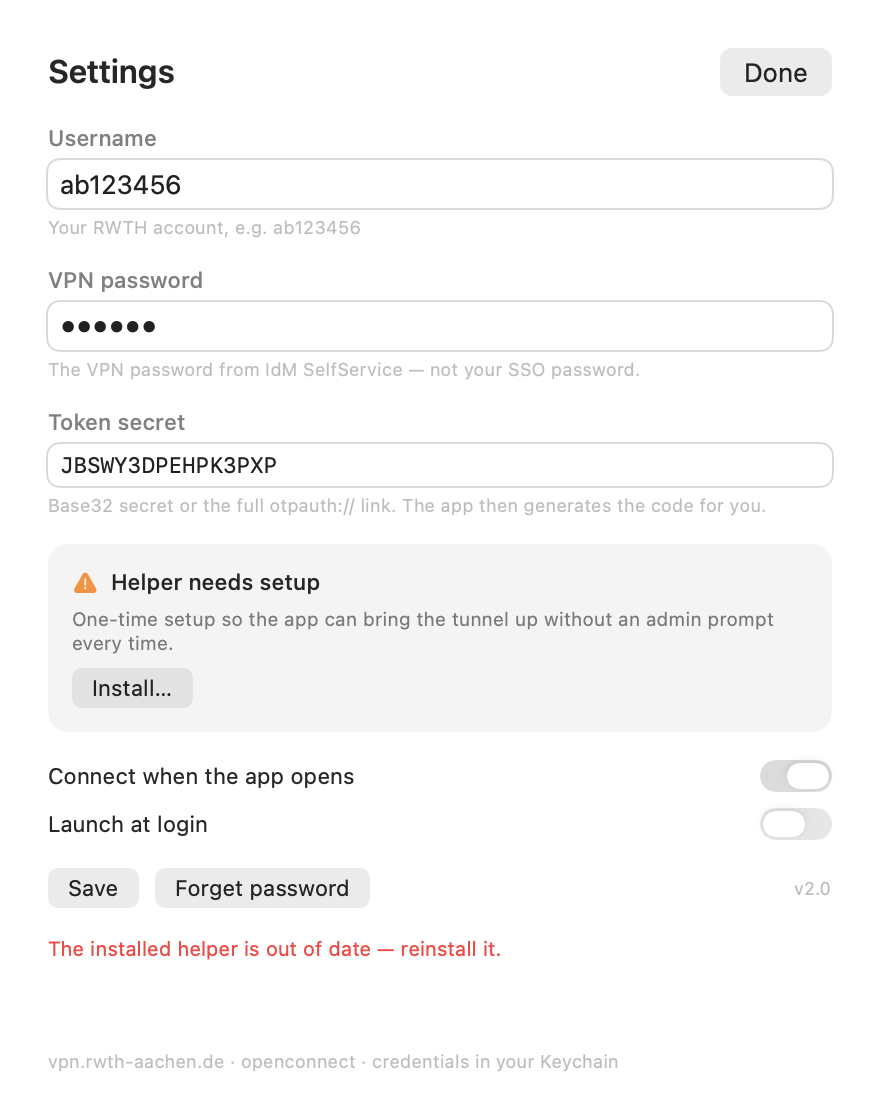
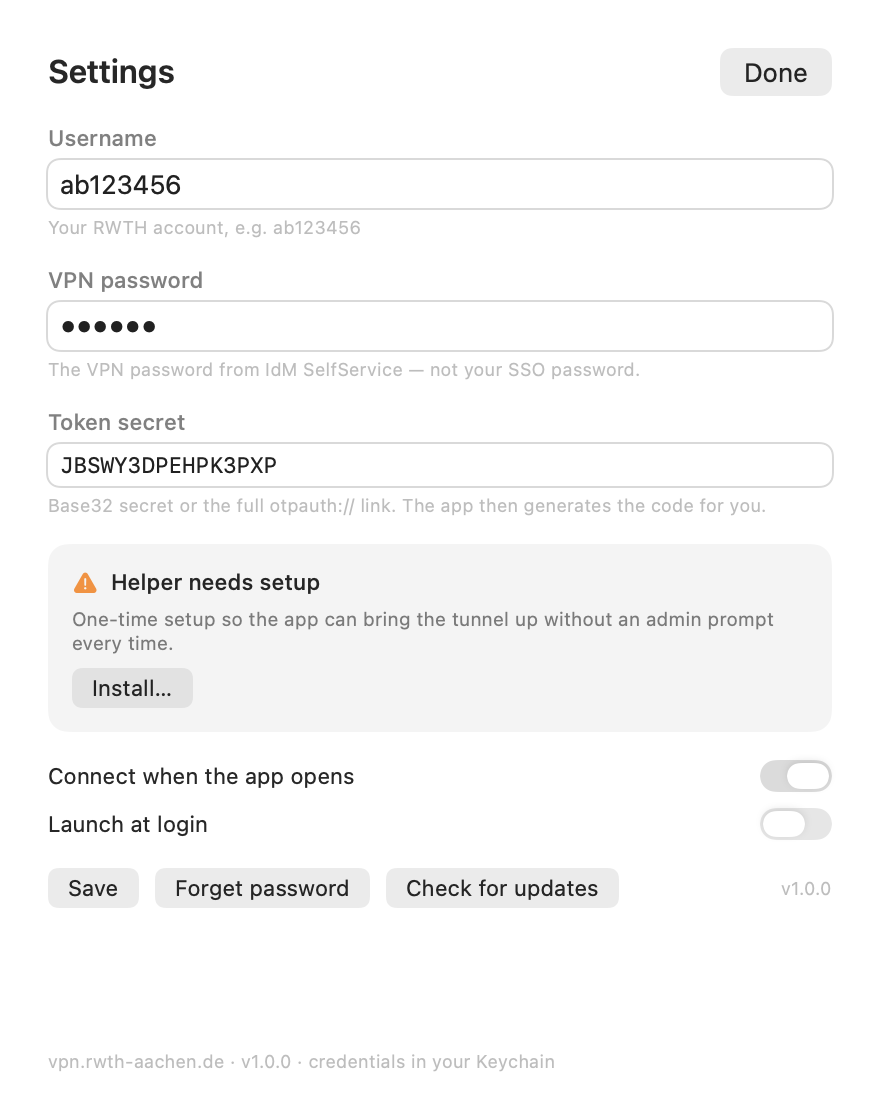
Polish: accessibility traits, footer version, licences in bundle

diff --git a/Sources/Views.swift b/Sources/Views.swift
@@ -120,6 +120,7 @@ struct MainView: View {
             }
             Spacer(minLength: 0)
             Text(model.isConnected ? "Connected" : (hasError ? "Error" : "Offline"))
+                .accessibilityLabel(model.isConnected ? "Connected" : (hasError ? "Error" : "Not connected"))
                 .font(.system(size: 10, weight: .semibold))
                 .padding(.horizontal, 9)
                 .padding(.vertical, 4)
@@ -215,6 +216,8 @@ struct MainView: View {
             .contentShape(Rectangle())
         }
         .buttonStyle(.plain)
+        .accessibilityAddTraits(selected ? [.isSelected] : [])
+        .accessibilityLabel("\(title) tunnel")
     }
 
     @ViewBuilder
@@ -464,7 +467,7 @@ struct SettingsView: View {
             }
 
             Spacer(minLength: 0)
-            Text("vpn.rwth-aachen.de · openconnect \(AppInfo.version) · credentials in your Keychain")
+            Text("vpn.rwth-aachen.de · v\(AppInfo.version) · credentials in your Keychain")
                 .font(.system(size: 9))
                 .foregroundStyle(.tertiary)
         }
